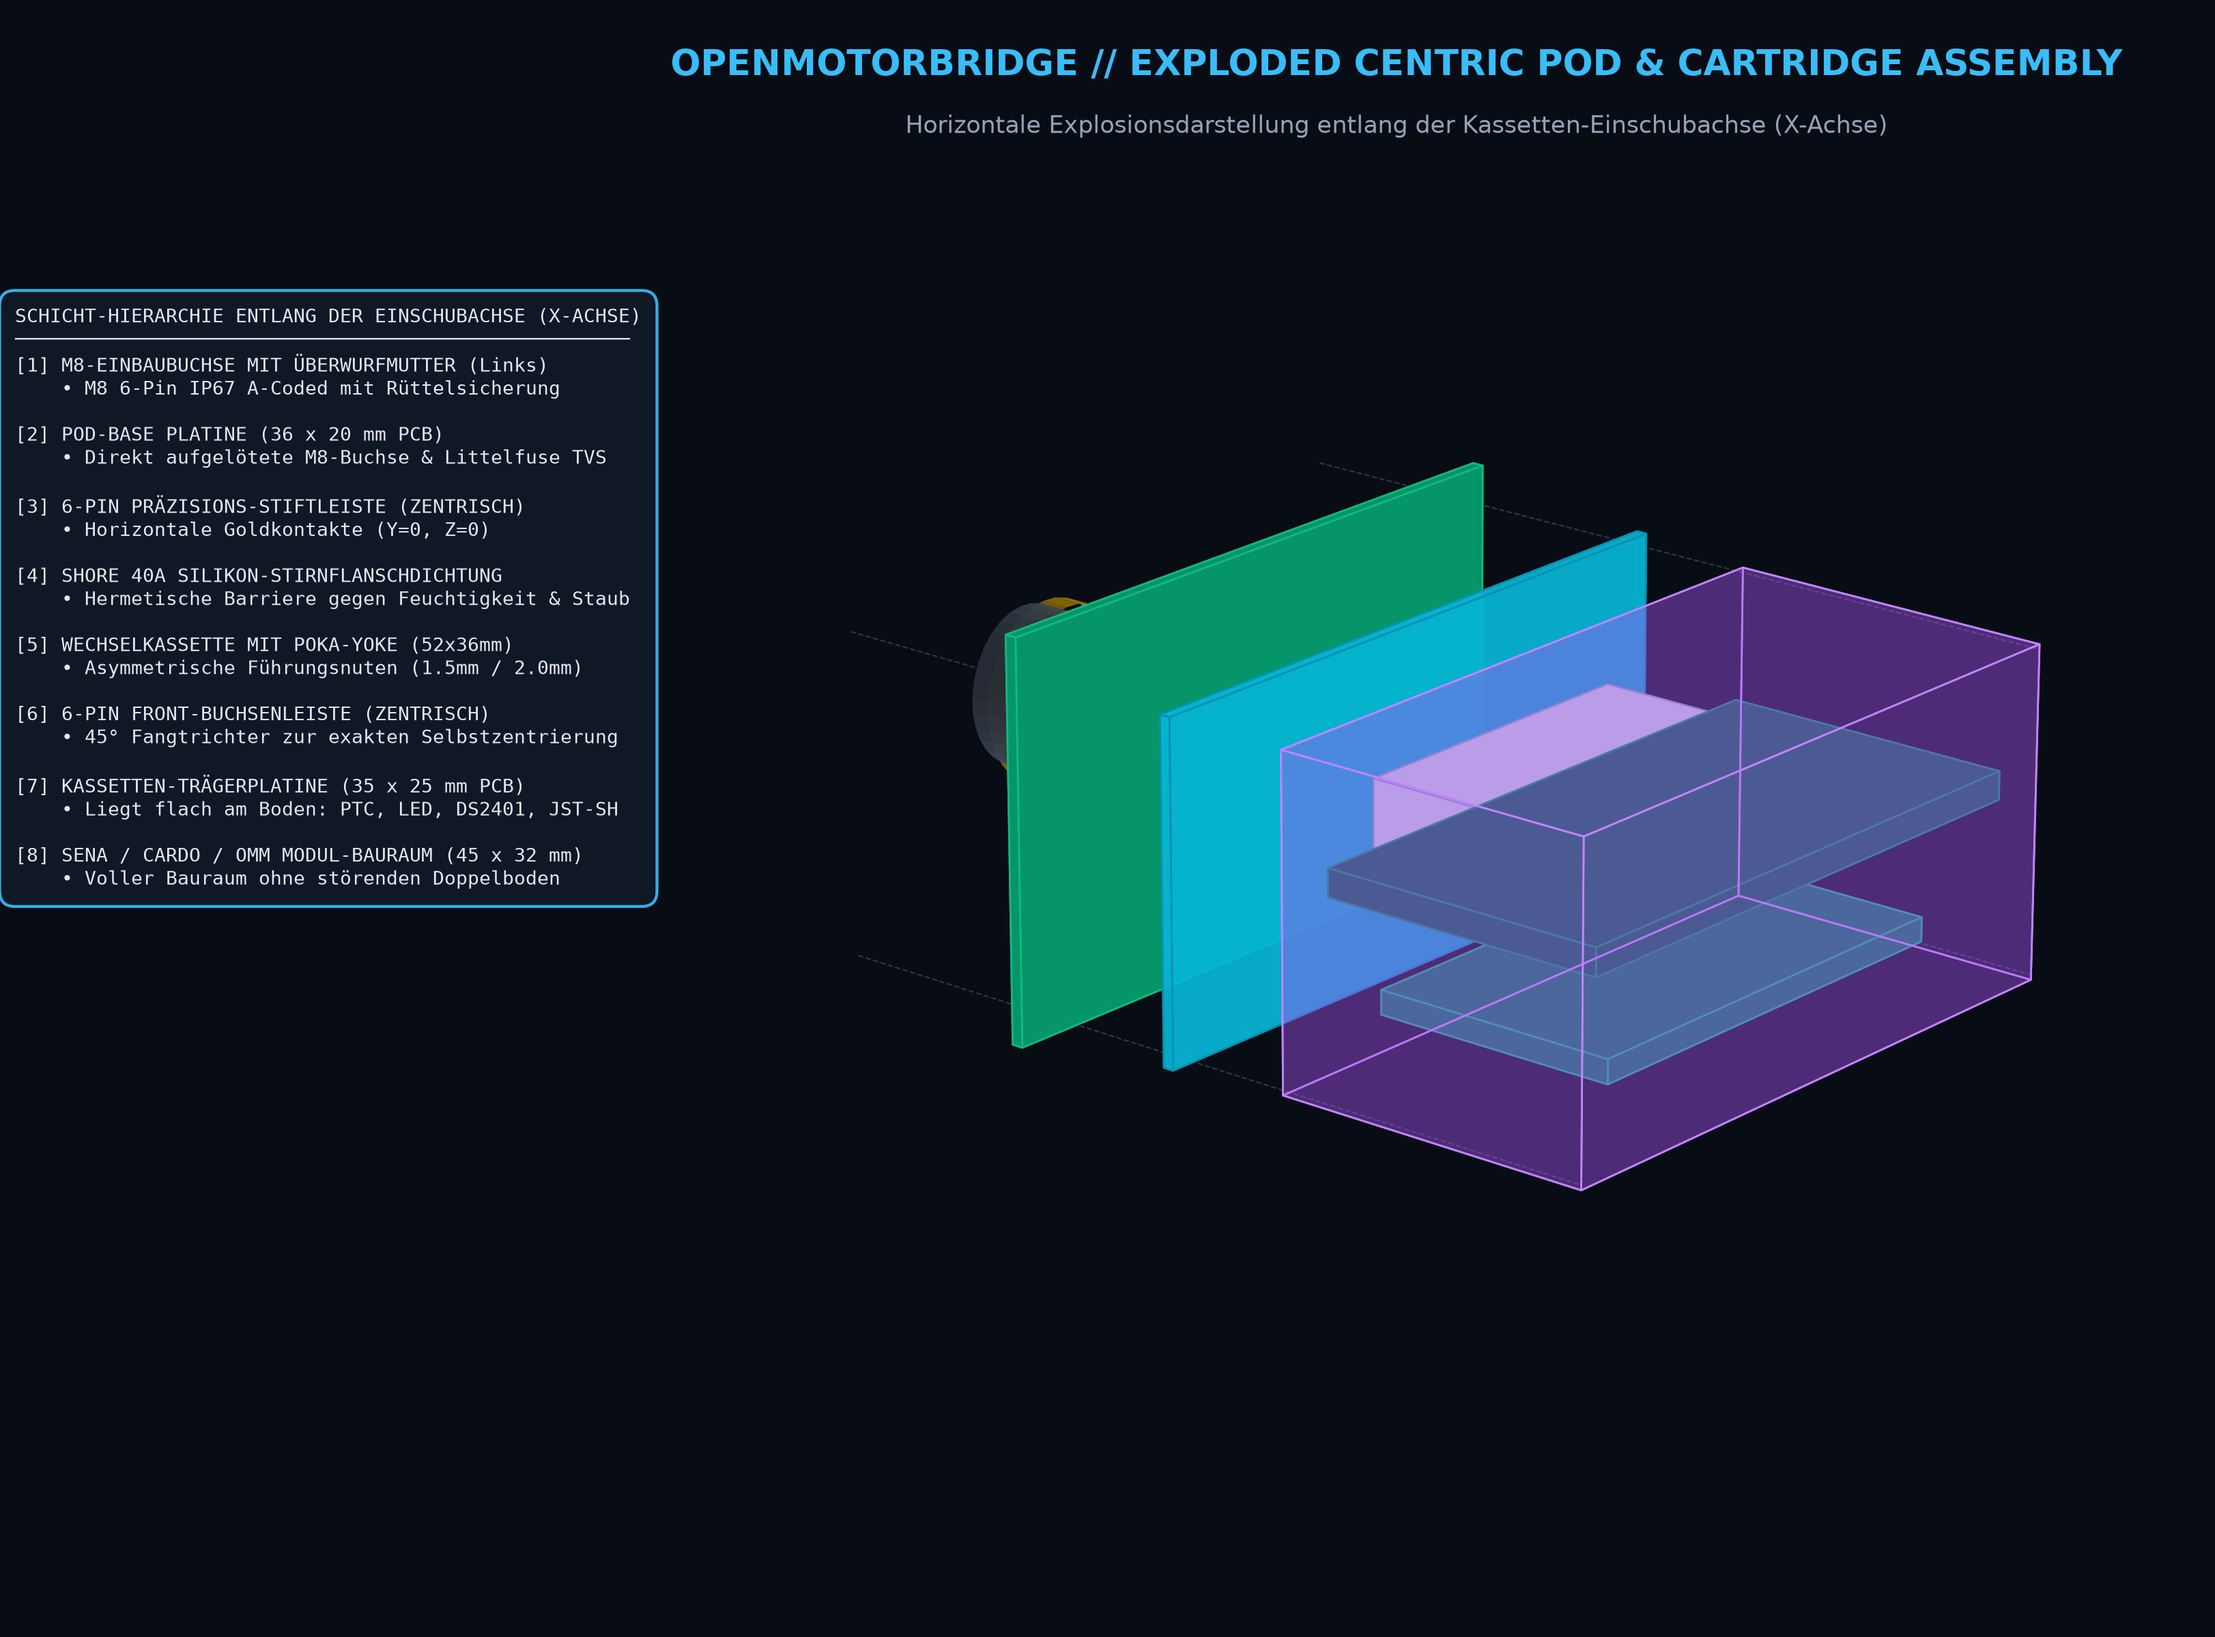
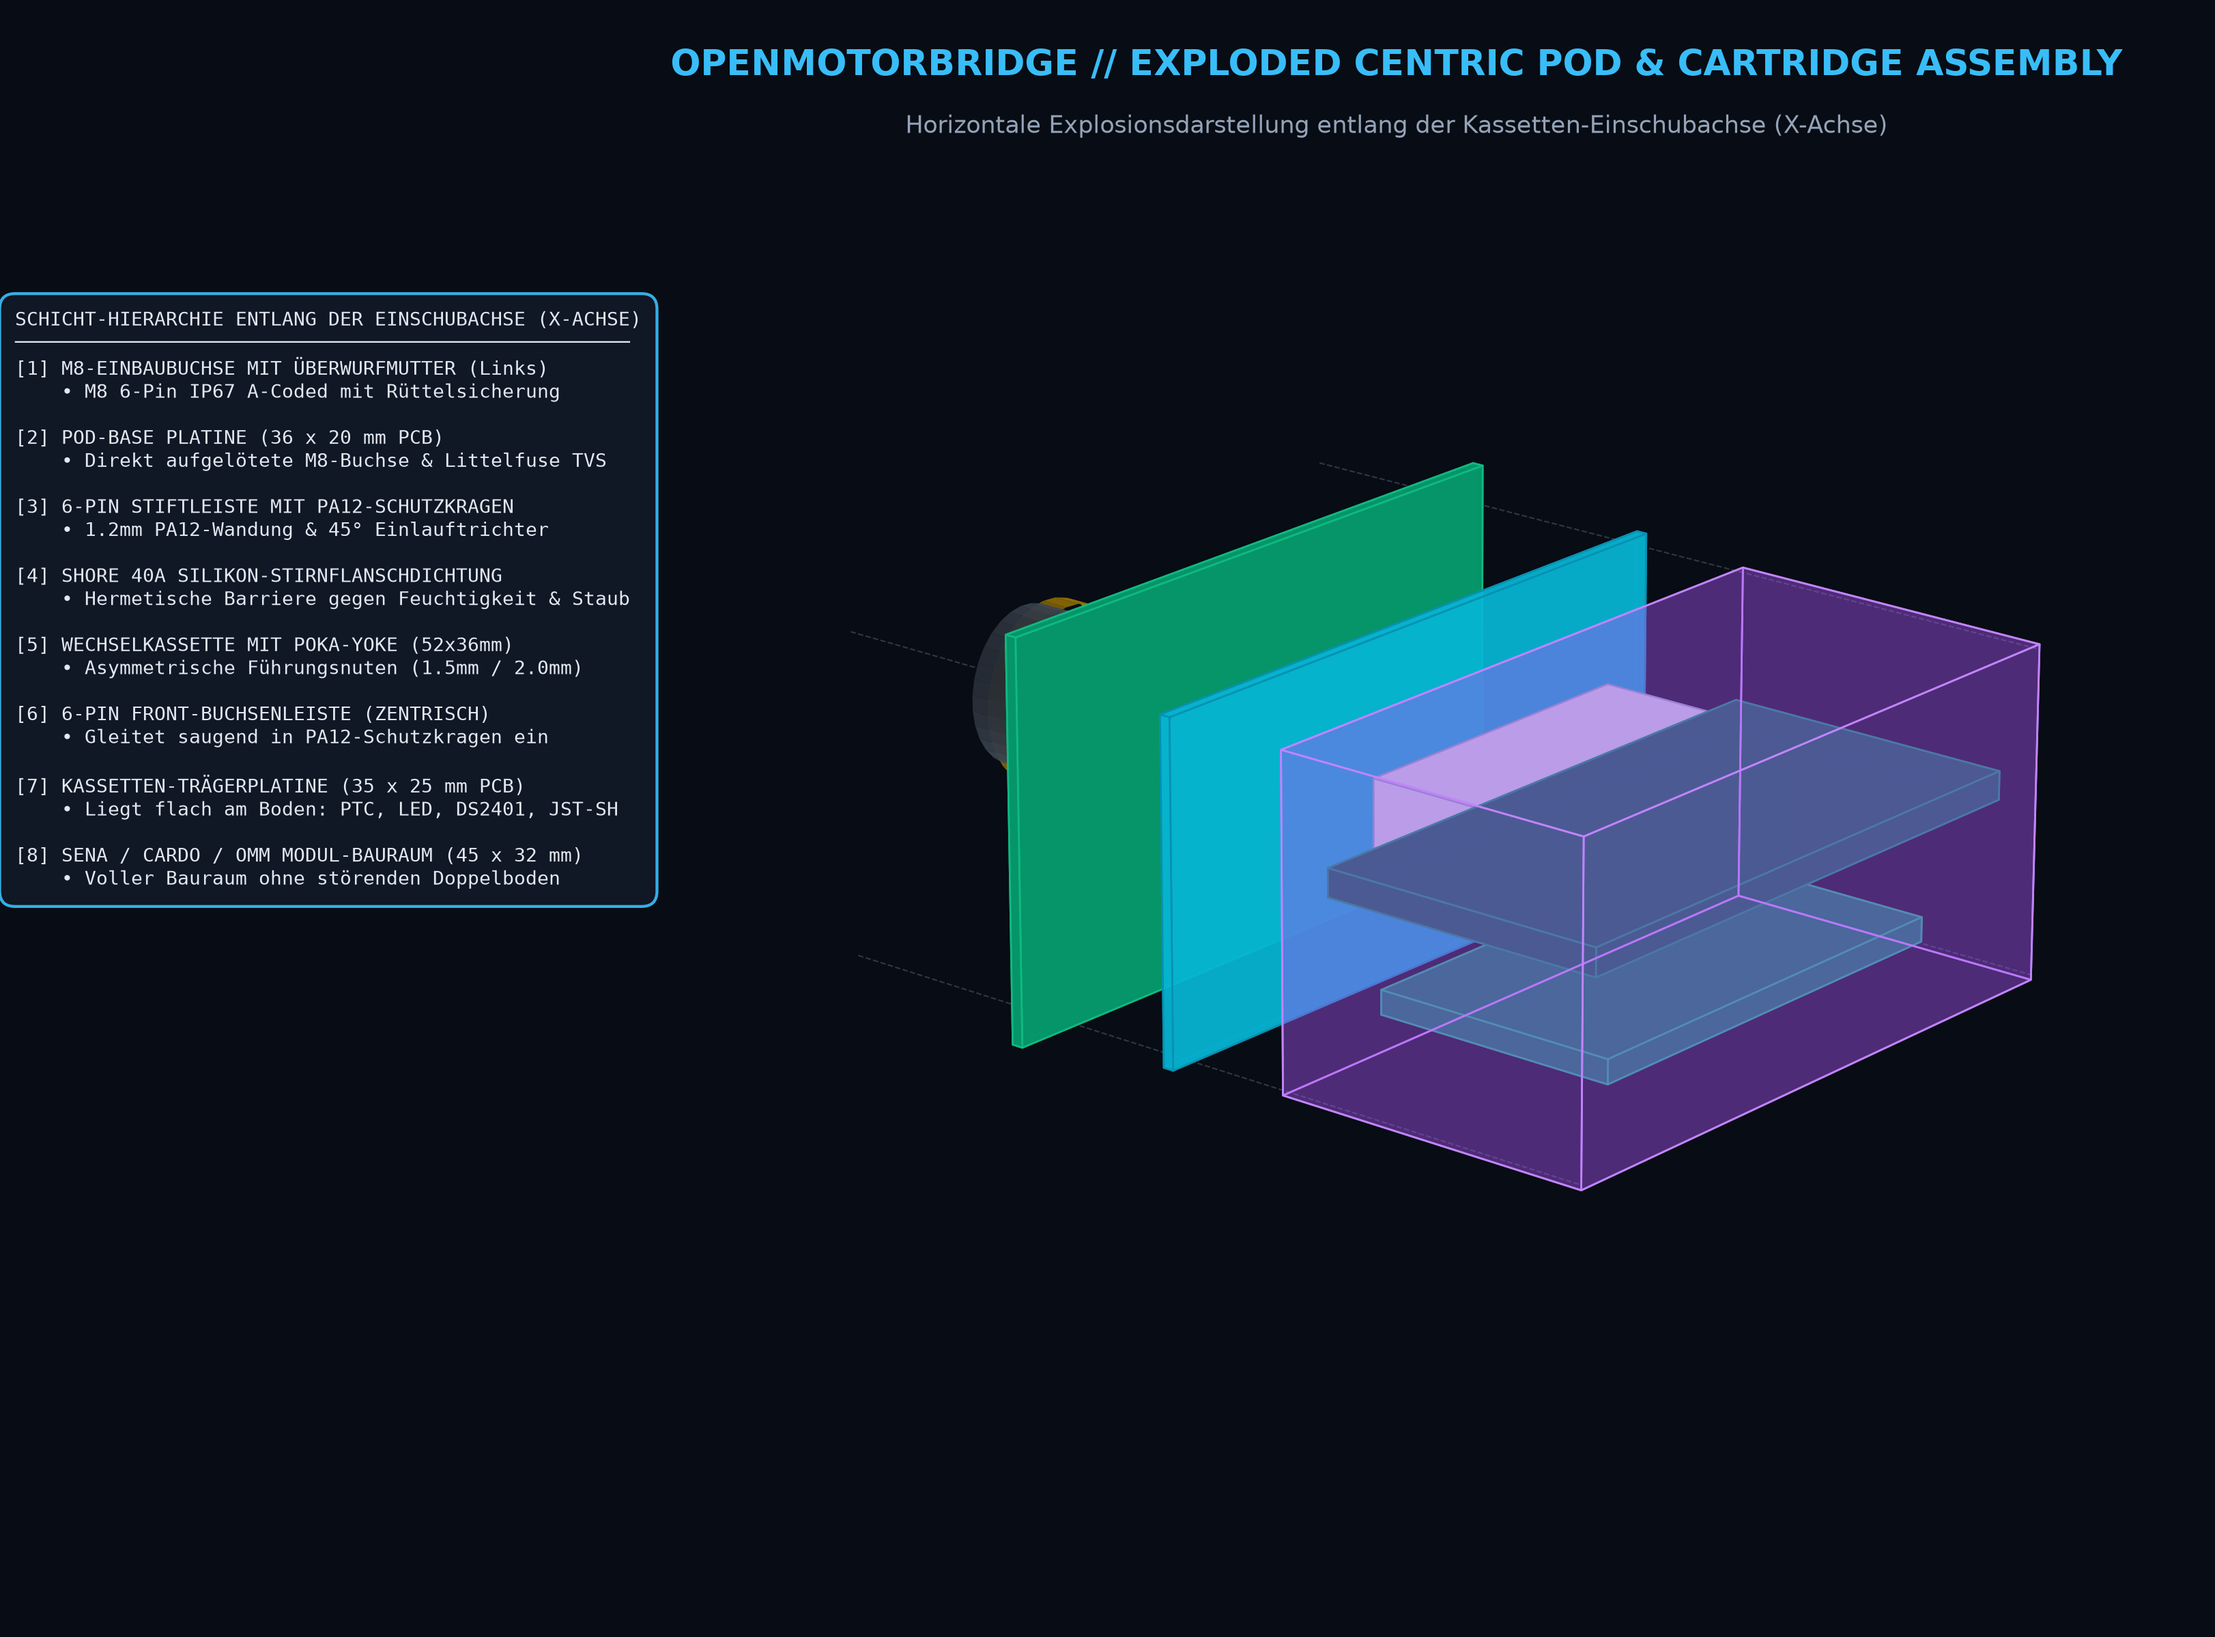
docs(mechanical): integrate 4-sided PA12 protective collar with 45-deg lead-in chamfer around Pod Base header

Changed region(s): [[0.0, 0.1543, 0.2801, 0.3394], [0.0311, 0.432, 0.249, 0.4629]]

diff --git a/hardware/scripts/generate_pod_mechanical_cad.py b/hardware/scripts/generate_pod_mechanical_cad.py
@@ -119,18 +119,21 @@ def render_xray_assembly(output_png):
     draw_box(ax, -28.4, 8.0, 2.0, 0.9, 3.2, 3.2, color='#0f172a', alpha=1.0, edgecolor='#64748b', linewidth=0.6)
     draw_box(ax, -28.4, 8.5, -4.0, 0.8, 1.6, 0.9, color='#d97706', alpha=1.0, edgecolor='#b45309', linewidth=0.5)
 
-    # 6. HORIZONTAL 6-PIN PIN HEADER (Mating interface at X = -28.4 to -20.0 mm, Centered at Y=0, Z=0)
+    # 6. HORIZONTAL 6-PIN PIN HEADER & INTEGRATED PA12 PROTECTIVE SHROUD (X = -28.4 to -20.0 mm, Centered at Y=0, Z=0)
+    # PA12 SLS Protective Collar (1.2mm wall with 45° self-centering funnel)
+    draw_box(ax, -28.4, -9.0, -2.5, 6.0, 18.0, 5.0, color='#0284c7', alpha=0.35, edgecolor='#38bdf8', linewidth=0.8)
     draw_box(ax, -28.4, -7.5, -1.25, 2.5, 15.0, 2.5, color='#0f172a', alpha=1.0, edgecolor='#334155', linewidth=0.6)
     pin_y_positions = np.linspace(-6.35, 6.35, 6)
     for py in pin_y_positions:
-        # Gold Pins extending horizontally into chamber
-        draw_cylinder(ax, x0=-25.9, y0=py, z0=0, radius=0.32, length=6.5, color='#fbbf24', alpha=1.0, axis='x')
+        # Gold Pins extending into PA12 protective funnel
+        draw_cylinder(ax, x0=-25.9, y0=py, z0=0, radius=0.32, length=5.5, color='#fbbf24', alpha=1.0, axis='x')
 
     # 7. REMOVABLE WECHSELKASSETTE SLED (52.0 x 36.0 x 16.5 mm, X = -19.5 to +32.5 mm)
     # Translucent smoky purple casing with 45° lead-in chamfer
     draw_box(ax, -19.5, -18.0, -8.25, 52.0, 36.0, 16.5, color='#a855f7', alpha=0.18, edgecolor='#c084fc', linewidth=0.9)
 
     # 8. HORIZONTAL 6-PIN SOCKET ON CARTRIDGE LEADING EDGE (at X = -19.5 to -13.5 mm, Centered at Y=0, Z=0)
+    # Socket slides directly into PA12 protective collar (piston-like seal)
     draw_box(ax, -19.5, -7.8, -1.5, 6.0, 15.6, 3.0, color='#1e293b', alpha=0.98, edgecolor='#475569', linewidth=0.7)
 
     # 9. FLAT HORIZONTAL CARTRIDGE PCB (Lying on cassette floor at Z = -6.5 mm, X = -19.0 to +16.0 mm)
@@ -161,18 +164,19 @@ def render_xray_assembly(output_png):
     # Title header
     fig.text(0.5, 0.95, "OPENMOTORBRIDGE // CENTRIC POD & FLAT CARTRIDGE ASSEMBLY", 
              color='#38bdf8', fontsize=17, fontweight='bold', ha='center', fontfamily='sans-serif')
-    fig.text(0.5, 0.915, "3D X-Ray CAD Architecture — 100% Centric Slide-In Bay with Poka-Yoke Rails & Horizontal 6-Pin Mating", 
+    fig.text(0.5, 0.915, "3D X-Ray CAD Architecture — 100% Centric Slide-In Bay with PA12 Shrouded Header & Horizontal 6-Pin Mating", 
              color='#94a3b8', fontsize=11.5, ha='center', fontfamily='sans-serif')
 
     # Technical Details Overlay
     left_card_text = (
-        "POD-BASIS: M8-ADAPTER & 6-PIN HEADER\n"
+        "POD-BASIS: M8-ADAPTER & SHROUDED HEADER\n"
         "─────────────────────────────────────────\n"
         "• M8 6-Pin IP67 Vollmetall-Einbaubuchse\n"
         "• Pod-Base Platine (36 x 20 mm PCB)\n"
         "• Integrierte Littelfuse SP3012 TVS-Matrix\n"
         "• 6-Pin Präzisions-Stiftleiste (Zentrisch)\n"
-        "  (Exakt auf Symmetrieachse Y=0, Z=0)\n"
+        "• PA12-Schutzkragen & Fangtrichter (1.2mm)\n"
+        "  (Vollständige Kapselung gegen Verbiegen)\n"
         "• Asymmetrische Poka-Yoke Führungsstege\n"
         "  (Links: 1.5 mm / Rechts: 2.0 mm Nut)"
     )
@@ -183,8 +187,8 @@ def render_xray_assembly(output_png):
         "WECHSELKASSETTE MIT FLACH-PLATINE (52x36mm)\n"
         "─────────────────────────────────────────\n"
         "• Horizontale 6-Pin Front-Buchsenleiste\n"
-        "• 45° Fangtrichter mit ±1.2mm Zentrierung\n"
-        "• Formschlüssiger Endanschlag (PA12)\n\n"
+        "• Gleitet formschlüssig in PA12-Schutzkragen\n"
+        "• 45° Fangtrichter mit ±1.2mm Selbstzentrierung\n\n"
         "KASSETTEN-TRÄGERPLATINE (35 x 25 mm PCB):\n"
         "• Liegt flach auf dem Kassettenboden\n"
         "• 500mA PTC-Sicherung & Grüne 5V Power-LED\n"
@@ -209,7 +213,7 @@ def render_exploded_view(output_png):
     # Exploded offsets along horizontal X-axis (from left to right):
     # 1. M8 Threaded Collar & Nut: X = -72..-56
     # 2. Pod Base PCB (ADPT: 36x20mm): X = -34..-32
-    # 3. Horizontal 6-Pin Pin Header: X = -22..-14
+    # 3. PA12 Integrated Shrouded Collar & 6-Pin Header: X = -22..-14
     # 4. Silicone Perimeter Gasket: X = -8..-6
     # 5. Removable Cartridge Shell with Poka-Yoke: X = +10..+56
     # 6. Horizontal 6-Pin Socket: X = +10..+16
@@ -224,11 +228,12 @@ def render_exploded_view(output_png):
     draw_box(ax, -34.0, -18.0, -10.0, 1.6, 36.0, 20.0, color='#059669', alpha=0.95, edgecolor='#10b981', linewidth=0.9)
     draw_box(ax, -32.4, 8.0, 2.0, 0.9, 3.2, 3.2, color='#0f172a', alpha=1.0, edgecolor='#64748b', linewidth=0.6) # SP3012
 
-    # 3. Horizontal 6-Pin Pin Header (Floating at X = -20 mm, Centered at Y=0, Z=0)
+    # 3. PA12 Shroud & 6-Pin Pin Header (Floating at X = -20 mm, Centered at Y=0, Z=0)
+    draw_box(ax, -20.0, -9.0, -2.5, 6.0, 18.0, 5.0, color='#0284c7', alpha=0.35, edgecolor='#38bdf8', linewidth=0.8)
     draw_box(ax, -20.0, -7.5, -1.25, 2.5, 15.0, 2.5, color='#0f172a', alpha=1.0, edgecolor='#334155', linewidth=0.6)
     pin_y_positions = np.linspace(-6.35, 6.35, 6)
     for py in pin_y_positions:
-        draw_cylinder(ax, x0=-17.5, y0=py, z0=0, radius=0.32, length=6.0, color='#fbbf24', alpha=1.0, axis='x')
+        draw_cylinder(ax, x0=-17.5, y0=py, z0=0, radius=0.32, length=5.0, color='#fbbf24', alpha=1.0, axis='x')
 
     # 4. Silicone Perimeter Gasket (Shore 40A at X = -8 mm)
     draw_box(ax, -8.0, -18.5, -8.5, 1.5, 37.0, 17.0, color='#06b6d4', alpha=0.75, edgecolor='#0891b2', linewidth=0.9)
@@ -272,14 +277,14 @@ def render_exploded_view(output_png):
         "    • M8 6-Pin IP67 A-Coded mit Rüttelsicherung\n\n"
         "[2] POD-BASE PLATINE (36 x 20 mm PCB)\n"
         "    • Direkt aufgelötete M8-Buchse & Littelfuse TVS\n\n"
-        "[3] 6-PIN PRÄZISIONS-STIFTLEISTE (ZENTRISCH)\n"
-        "    • Horizontale Goldkontakte (Y=0, Z=0)\n\n"
+        "[3] 6-PIN STIFTLEISTE MIT PA12-SCHUTZKRAGEN\n"
+        "    • 1.2mm PA12-Wandung & 45° Einlauftrichter\n\n"
         "[4] SHORE 40A SILIKON-STIRNFLANSCHDICHTUNG\n"
         "    • Hermetische Barriere gegen Feuchtigkeit & Staub\n\n"
         "[5] WECHSELKASSETTE MIT POKA-YOKE (52x36mm)\n"
         "    • Asymmetrische Führungsnuten (1.5mm / 2.0mm)\n\n"
         "[6] 6-PIN FRONT-BUCHSENLEISTE (ZENTRISCH)\n"
-        "    • 45° Fangtrichter zur exakten Selbstzentrierung\n\n"
+        "    • Gleitet saugend in PA12-Schutzkragen ein\n\n"
         "[7] KASSETTEN-TRÄGERPLATINE (35 x 25 mm PCB)\n"
         "    • Liegt flach am Boden: PTC, LED, DS2401, JST-SH\n\n"
         "[8] SENA / CARDO / OMM MODUL-BAURAUM (45 x 32 mm)\n"

diff --git a/docs/de/05_mechanical_enclosure_pods.md b/docs/de/05_mechanical_enclosure_pods.md
@@ -229,10 +229,11 @@ Der mechanische und elektrische Übergang von der Wechselkassette auf die M8-Kab
 ![OpenMotorBridge Pod-Basisplatine Unteransicht 3D-Render](../../hardware/kicad_pod_base/pod_base_3d_render_bottom.png)
 
 * **Abmessungen:** $36{,}0 \times 20{,}0\,\text{mm}$ (Kompakte 2-Layer FR4-Basisplatine mit großzügigen Leiterbahn- und Schutzabständen).
-* **Zentrierte 6-Pin Stiftleiste (`J1`):** 6-poliges Präzisions-Pin-Array ($2{,}54\,\text{mm}$ Raster, vergoldet) exakt auf der horizontalen Mittelachse ($Y=0, Z=0$).
+* **Zentrierte 6-Pin Stiftleiste (`J1`) mit PA12-Schutzkragen:** 6-poliges Präzisions-Pin-Array ($2{,}54\,\text{mm}$ Raster, vergoldet) exakt auf der horizontalen Mittelachse ($Y=0, Z=0$).
+* **Integrierte PA12-Schutzwandung & Fangtrichter:** Das Gehäuse bildet um die Stiftleiste `J1` eine **4-seitige, $1{,}2\,\text{mm}$ starke Schutzwand mit $45^\circ$-Einlaufschrägen**. Die Buchsenleiste der Wechselkassette gleitet formschlüssig und saugend wie ein Kolben in diese Wanne ein – die Stifte sind fingersicher gekapselt und können niemals verbogen oder verkantet werden.
 * **Integrierte ESD-Schutzmatrix (`U1`):** **Littelfuse SP3012-06UTG** (6-Kanal TVS-Array mit $< 0{,}5\,\text{pF}$ parasitärer Kapazität) leitet elektrostatische Entladungen beim Berühren der Kontakte blitzschnell gegen Masse ab.
-* **Zentrierte M8-Rundsteckverbinder-Buchse (`J2`):** Metallgekapselte **M8 6-Pin A-Coded IP67 Einbaubuchse** (IEC 61076-2-104) exakt im geometrischen Zentrum der Platinenunterseite (`B.Cu`) verlötet.
-* **Mechanische Entkopplung & Montage (`H1`, `H2`):** 2x M2 Montagebohrungen mit Shore 40A Silikondämpfung gegen Fahrbahnvibrationen.
+* **Zentrierte M8-Rundsteckverbinder-Buchse (`J2`):** Metallgekapselte **M8 6-Pin A-Coded IP67 Einbaubuchse** (IEC 61076-2-104) mit massivem Montagesockel und Gewindekragen exakt im geometrischen Zentrum der Platinenunterseite (`B.Cu`) verlötet.
+* **Mechanische Entkopplung & Montage (`H1`, `H2`):** 2x M2 Montagebohrungen mit Shore 40A Silikondämpfung gegen Fahrbahnvibrationen. Steckkräfte werden zu 100% vom Gehäuseendanschlag aufgenommen.
 
 ---
 

diff --git a/docs/en/05_mechanical_enclosure_pods.md b/docs/en/05_mechanical_enclosure_pods.md
@@ -230,10 +230,11 @@ The mechanical and electrical interface from the interchangeable cartridge to th
 ![OpenMotorBridge Pod Base PCB Bottom 3D Render](../../hardware/kicad_pod_base/pod_base_3d_render_bottom.png)
 
 * **Dimensions:** $36.0 \times 20.0\,\text{mm}$ (Compact 2-layer FR4 base board with generous clearance margins).
-* **Centered 6-Pin Header (`J1`):** 6-pin precision pin array ($2.54\,\text{mm}$ pitch, gold-plated) positioned at the exact geometric center line ($Y=0, Z=0$).
+* **Centered 6-Pin Header (`J1`) with PA12 Protective Shroud:** 6-pin precision pin array ($2.54\,\text{mm}$ pitch, gold-plated) positioned at the exact geometric center line ($Y=0, Z=0$).
+* **Integrated PA12 Protective Shroud & Lead-in Funnel:** The PA12 SLS housing forms a **4-sided, $1.2\,\text{mm}$ thick protective collar with $45^\circ$ self-centering lead-in chamfers** surrounding `J1`. The female socket header on the cartridge slides snugly into this shroud like a piston, fully encapsulating the pins against manual touching or mechanical bending.
 * **Integrated ESD Protection Array (`U1`):** **Littelfuse SP3012-06UTG** (6-channel TVS diode array with $< 0.5\,\text{pF}$ parasitic capacitance) shunts ESD strikes upon pin contact directly to chassis ground.
-* **Centered M8 Receptacle (`J2`):** Metal-shielded **M8 6-Pin A-Coded IP67 Receptacle** (IEC 61076-2-104) soldered at the exact geometric center of the bottom layer (`B.Cu`).
-* **Mechanical Damping & Mounting (`H1`, `H2`):** 2x M2 mounting holes with Shore 40A silicone dampening bushings against road vibrations.
+* **Centered M8 Receptacle (`J2`):** Metal-shielded **M8 6-Pin A-Coded IP67 Receptacle** (IEC 61076-2-104) with solid mounting base and threaded barrel soldered at the exact geometric center of the bottom layer (`B.Cu`).
+* **Mechanical Damping & Mounting (`H1`, `H2`):** 2x M2 mounting holes with Shore 40A silicone dampening bushings against road vibrations. Insertion forces are absorbed 100% by the PA12 housing end-stop.
 
 ---
 
